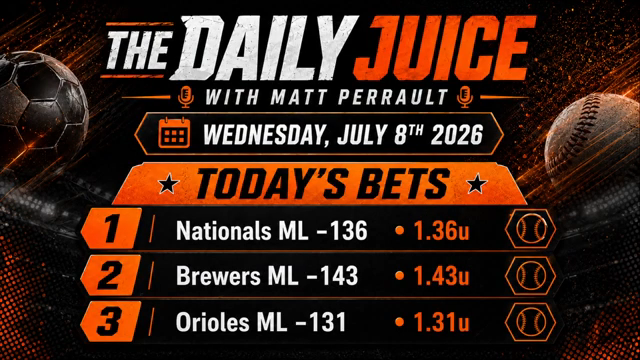
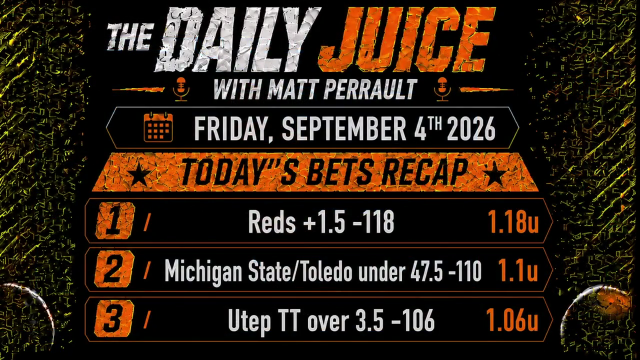
Refresh template to current slide, document client-pin failure
The show rebranded the bets slide since template.png was captured on
Jul 8, so the real slide scored 0.220 against a 0.20 MATCH_THRESHOLD.
Measured against the Sep 3 episode: old template 0.219, new 0.735.

Also correct the README (it still claimed a tv_embedded pin), add the
yt-dlp version floor to the setup command, and record why player_client
must not be pinned.

diff --git a/README.md b/README.md
@@ -12,7 +12,7 @@ fetches a static image URL.
 ```
 Raspberry Pi (residential IP — no cookies, no proxy)
         │  cron, hourly in a morning window
-        ├─ yt-dlp (tv_embedded client + Deno for the n-challenge)
+        ├─ yt-dlp (default clients + Deno for the n-challenge)
         │     downloads only the 40–70% slice of the latest episode
         ├─ OpenCV template match (template.png) ──► todays_bets.png
         └─ upload to Cloudflare R2  (key: todays-bets.png)
@@ -62,7 +62,7 @@ cd dailyjuice-api
 python3 -m venv --system-site-packages .venv
 .venv/bin/pip install -U pip
 # yt-dlp[default] bundles the yt-dlp-ejs n-challenge solver scripts.
-.venv/bin/pip install -U "yt-dlp[default]" boto3 curl-cffi
+.venv/bin/pip install -U "yt-dlp[default]>=2026.08.19" boto3 curl-cffi
 ```
 
 Create `~/dailyjuice-api/env.sh` (chmod 600) with your R2 credentials **and** the
@@ -119,3 +119,9 @@ Instant, no auth, no YouTube dependency, no timeout.
 - If a rare bot-check appears on the Pi, export a browser `cookies.txt` and add a
   `cookiefile` option — on a residential IP these last far longer than on a
   datacenter host.
+- **Do not pin `player_client`.** Pinning `android_vr` broke on 2026-08-29 when
+  YouTube started requiring a GVS PO token for that client's https formats, and
+  every run 403'd until the pin was removed. The default client set yields
+  token-free HLS formats, which the section download needs anyway (see the
+  format selector in `download_section`). Keep yt-dlp current — the version
+  floor above is the first release that exposes those HLS formats.
